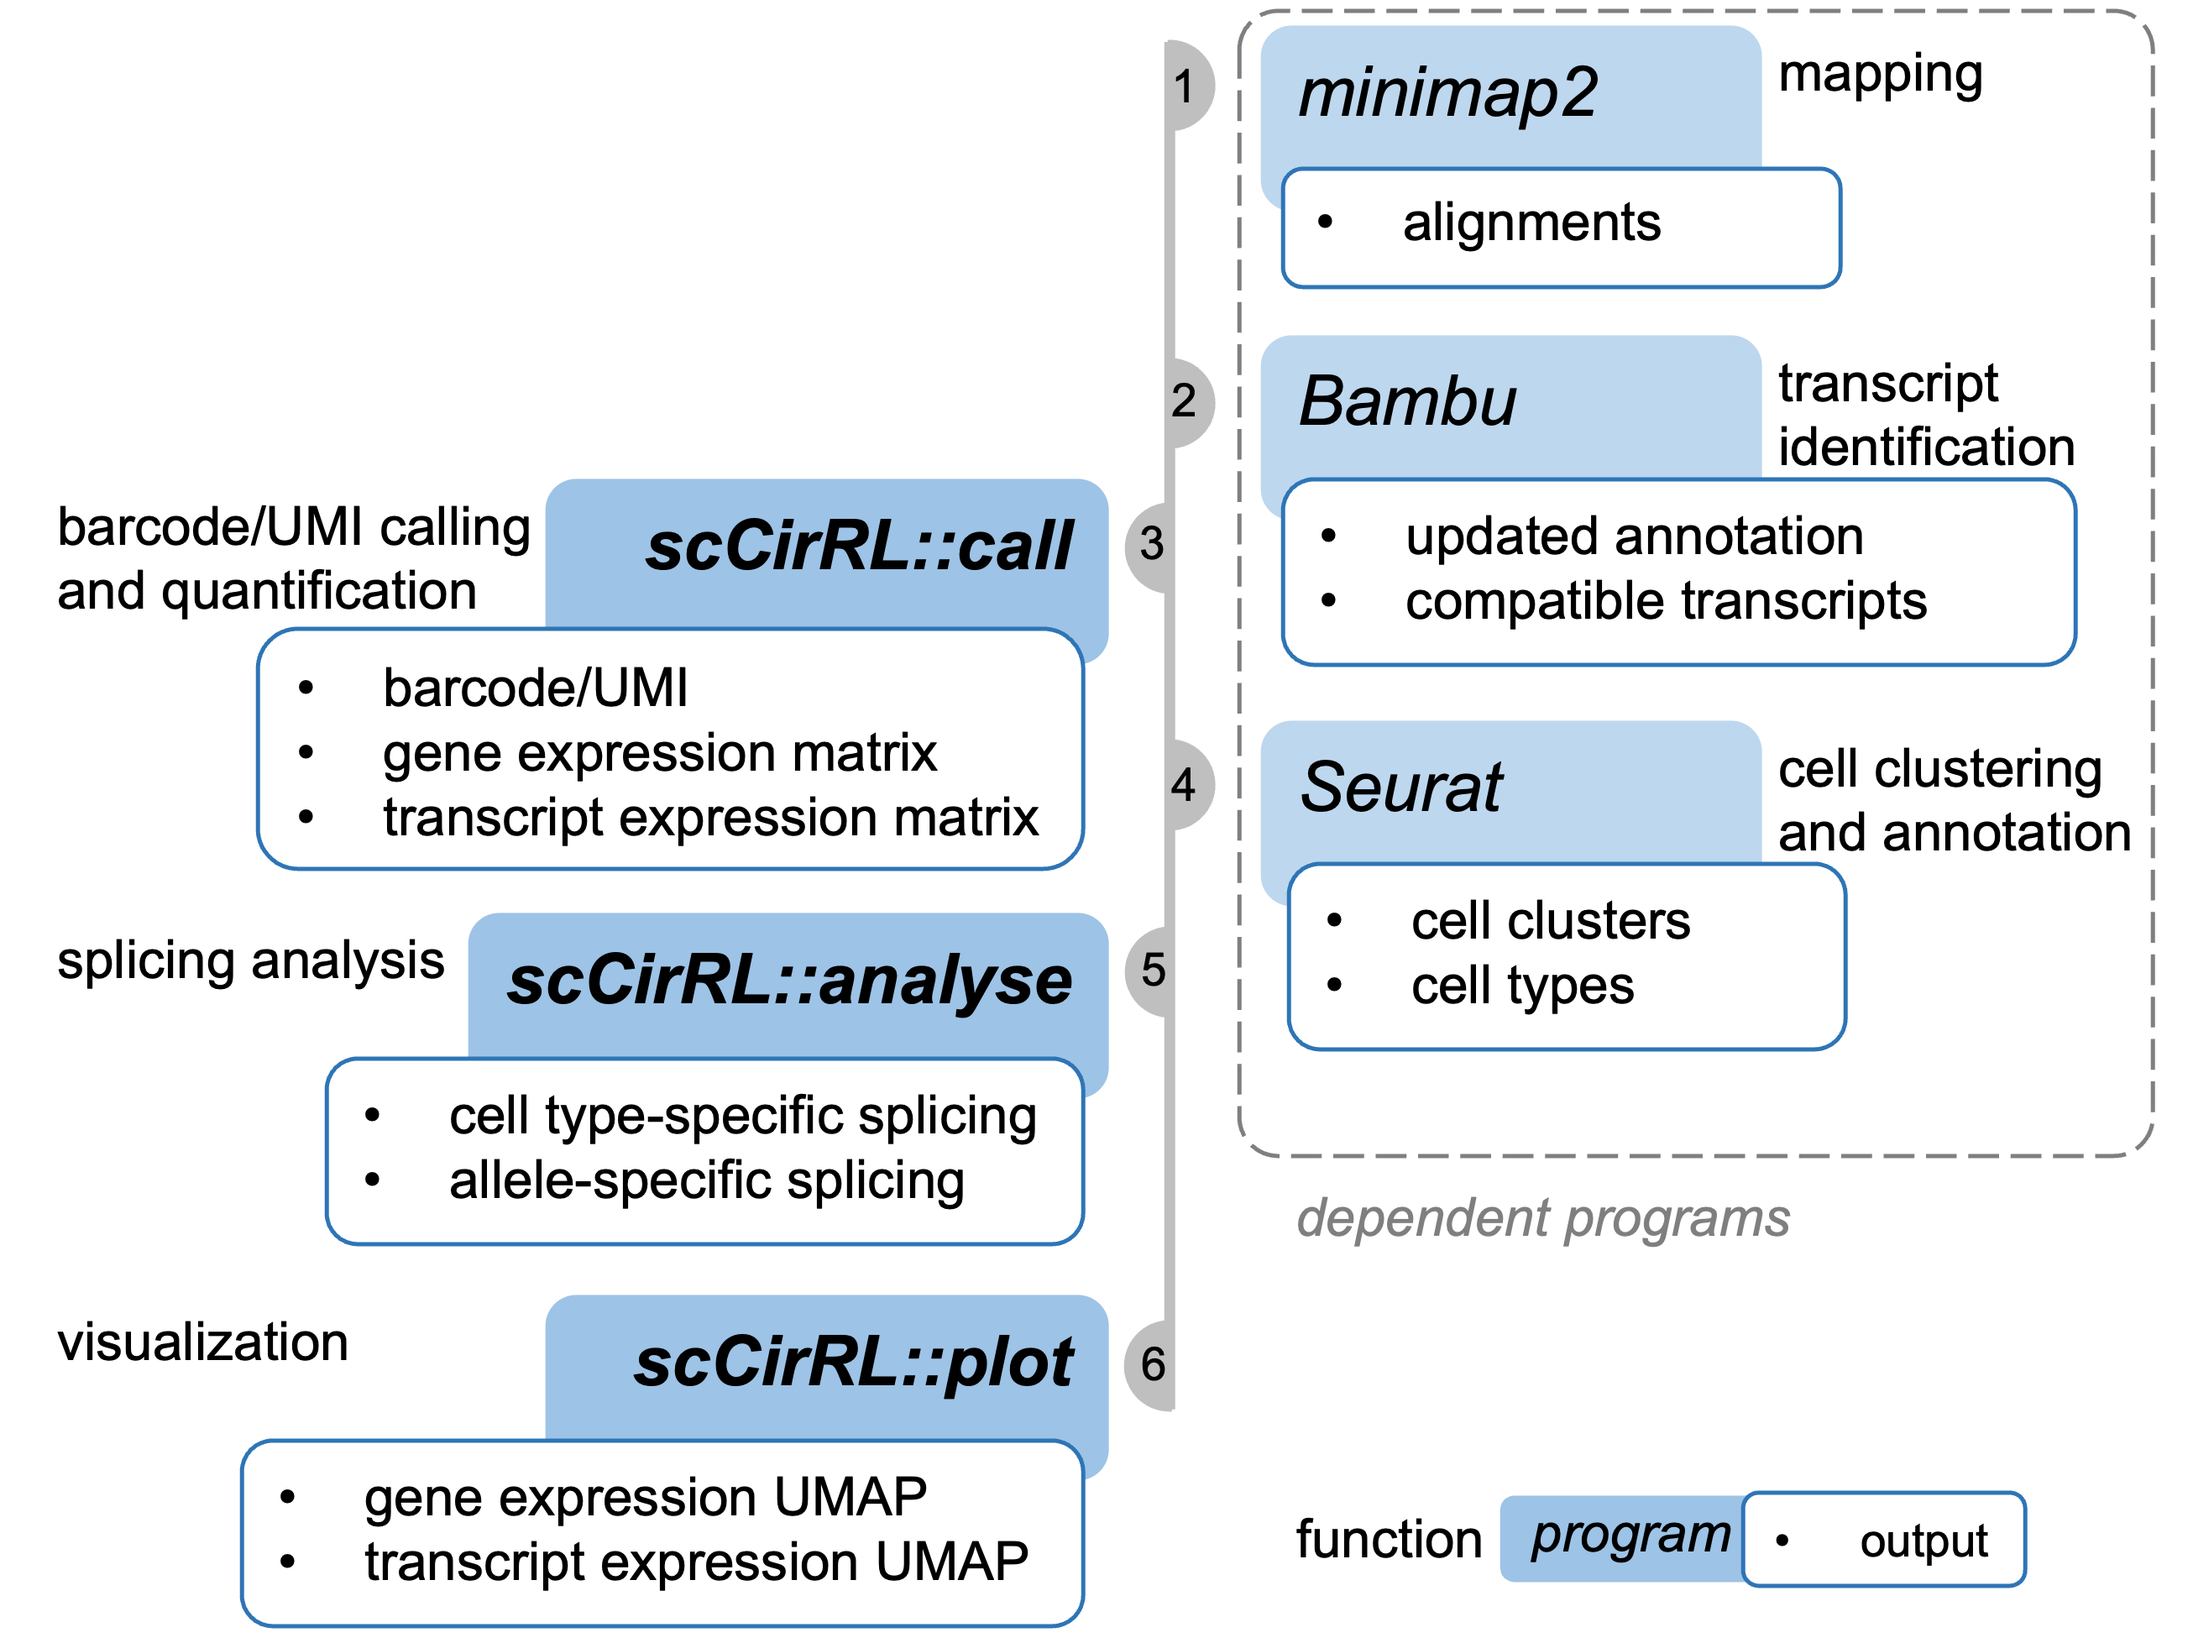
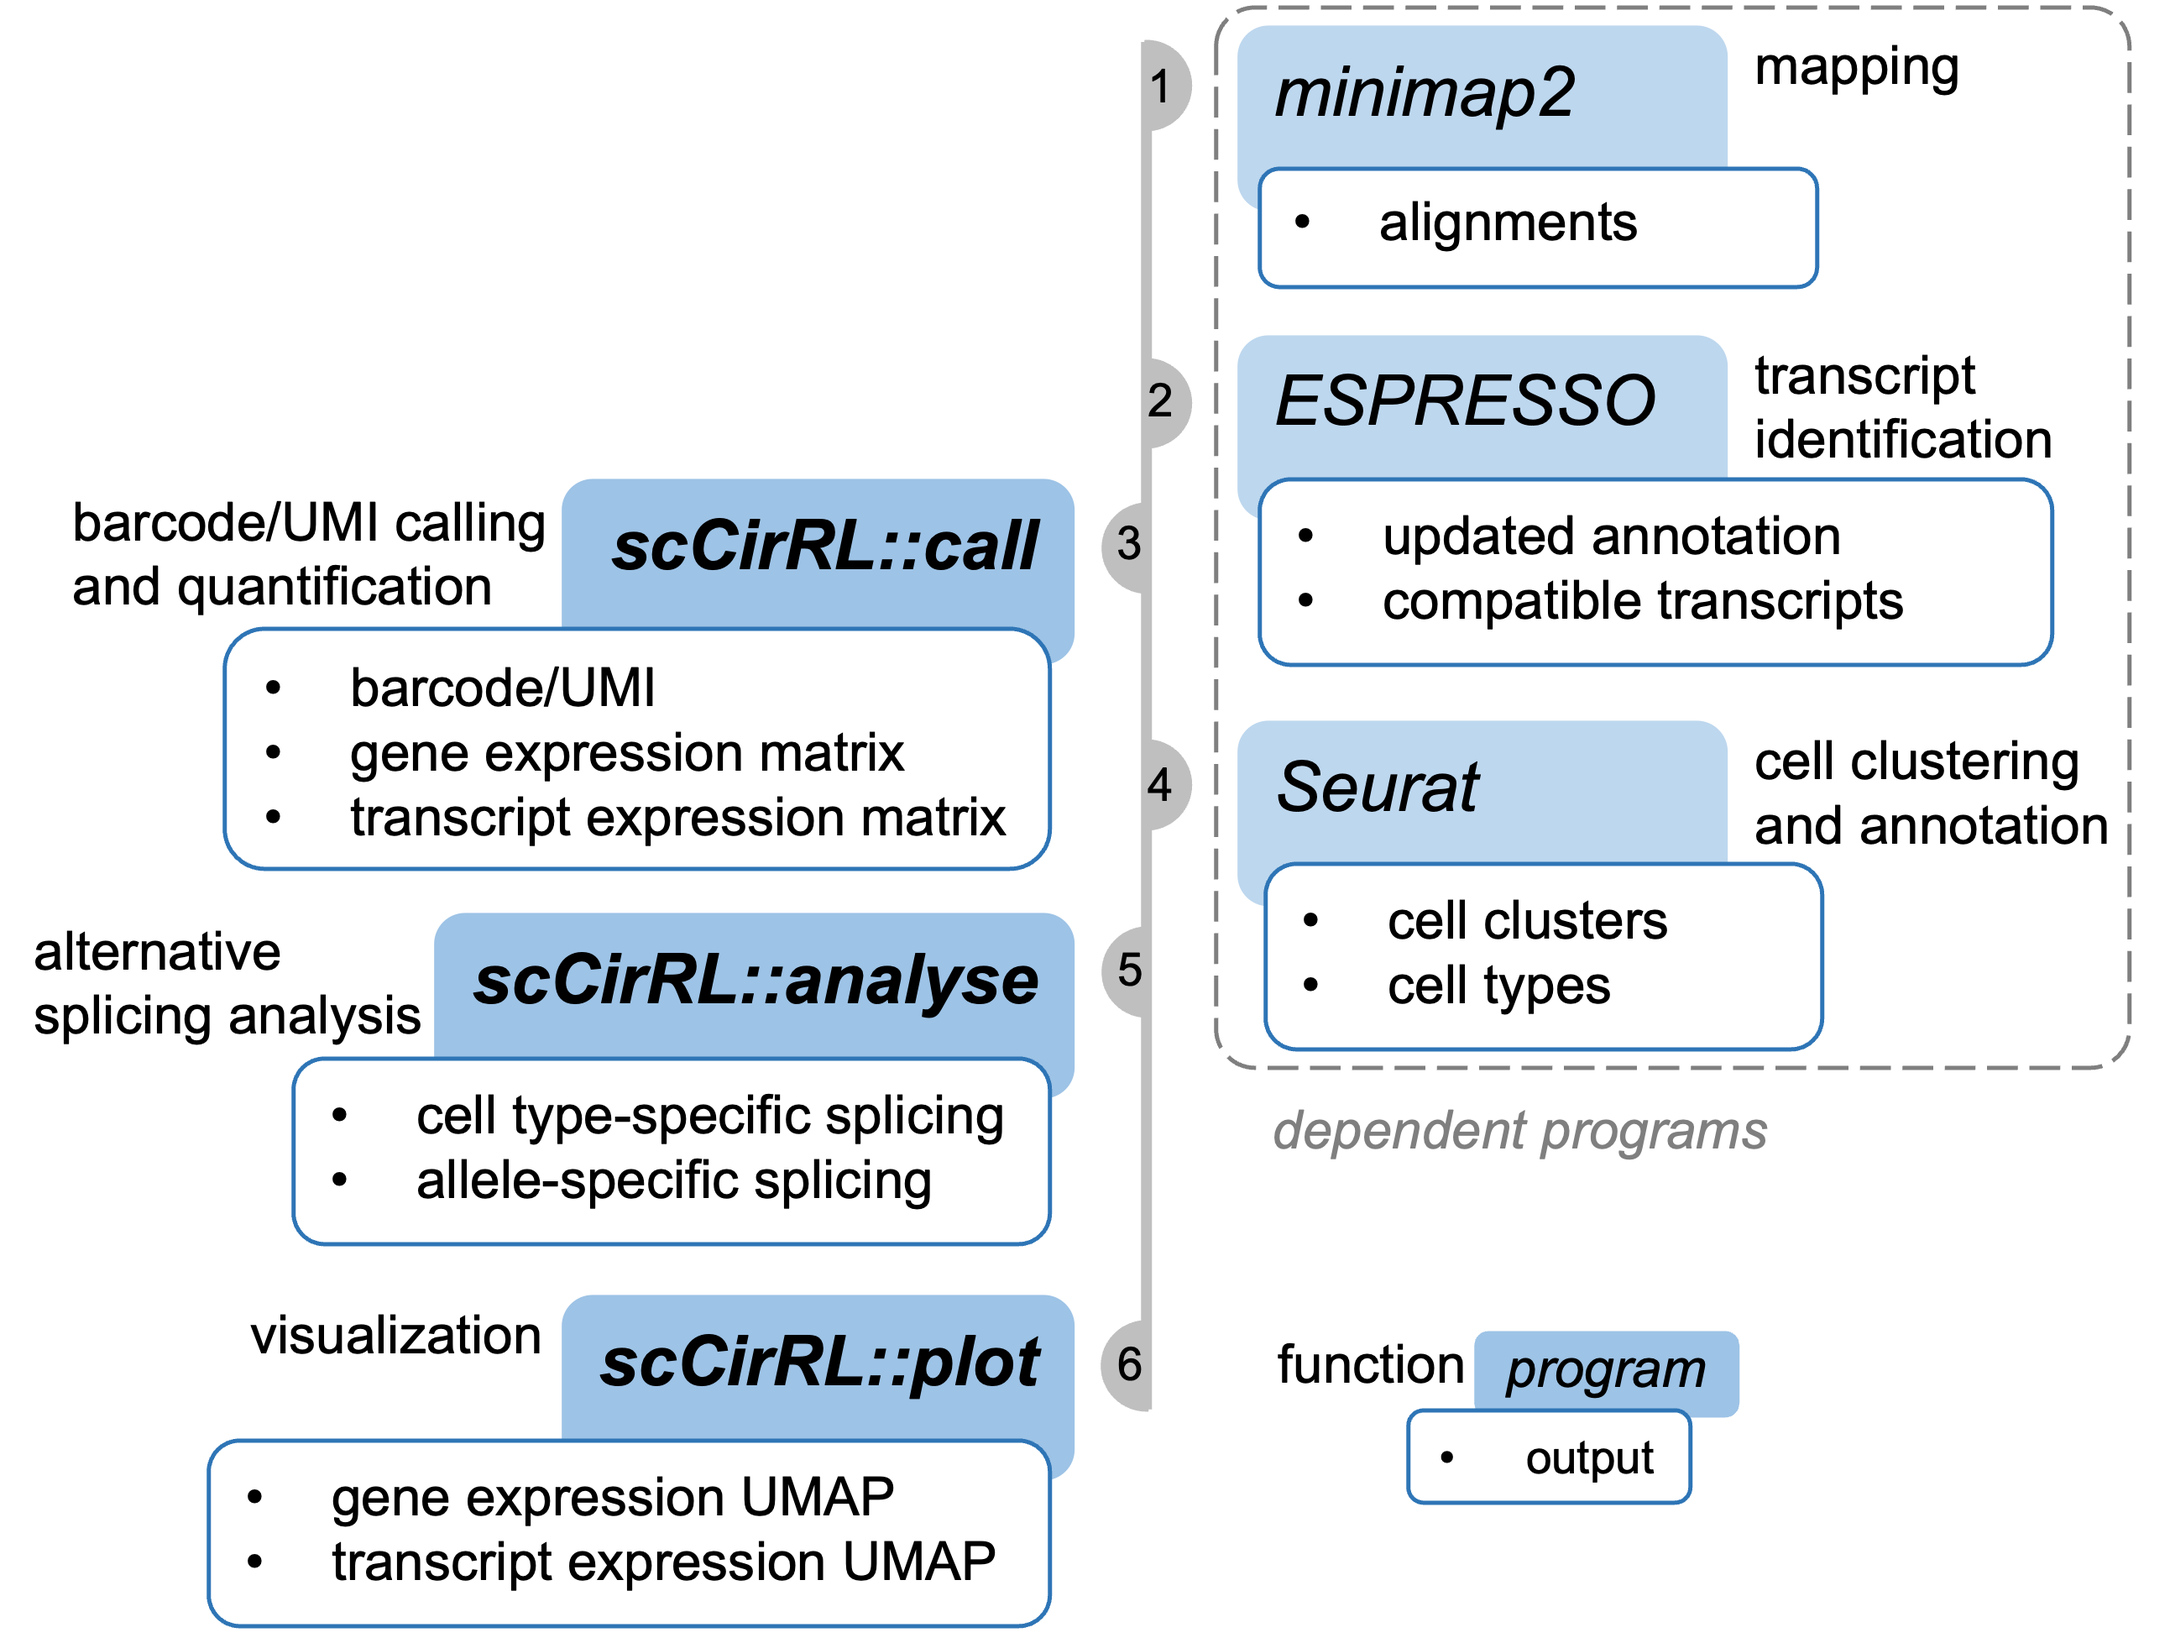
update README

diff --git a/README.md b/README.md
@@ -1,4 +1,5 @@
-# scCirRL: <ins>s</ins>ingle-<ins>c</ins>ell <ins>C</ins>haracterization of <ins>i</ins>soform <ins>r</ins>egulation using <ins>R</ins>NA-seq <ins>L</ins>ong reads
+<!-- # scCirRL: <ins>s</ins>ingle-<ins>c</ins>ell <ins>C</ins>haracterization of <ins>i</ins>soform <ins>r</ins>egulation using <ins>R</ins>NA-seq <ins>L</ins>ong reads -->
+# Haplotype-resolved full-length transcriptome analysis in single cells by scCirRL-seq
 
 <!-- [![Latest Release](https://img.shields.io/github/release/xinglab/scCirRL.svg?label=Release)](https://github.com/xinglab/scCirRL/releases/latest) -->
 <!-- [![Github All Releases](https://img.shields.io/github/downloads/xinglab/scCirRL/total.svg?label=Download)](https://github.com/xinglab/scCirRL/releases) -->
@@ -12,19 +13,21 @@
 
 - First version
 
-## What is scCirRL
-scCirRL is an analysis pipeline designed for single-cell RNA-seq long-read data.
-It mainly consists of two parts:
+## What is scCirRL-seq
+scCirRL-seq is a computational pipeline designed for single-cell RNA-seq long-read data.
+<!-- companioned with our single-cell long-read expermental protocol. -->
+It mainly consists of three parts:
 1. cell barcode/UMI calling: a standalone module for barcode/UMI calling and gene/transcript quantification
 2. alternative splicing analysis: modules for identification of cell type-specific and allele-specific splicing
+3. visualization of gene and transcript expression in single cells
 
 <img src="figs/github-workflow.png" width="70%">
 
 ## Table of Contents
-- [scCirRL: single-cell Characterization of isoform regulation using RNA-seq Long reads](#sccirrl-single-cell-characterization-of-isoform-regulation-using-rna-seq-long-reads)
+- [Haplotype-resolved full-length transcriptome analysis in single cells by scCirRL-seq](#haplotype-resolved-full-length-transcriptome-analysis-in-single-cells-by-sccirrl-seq)
   - [TODO: add one-line command to run, 1) barcode calling, 2) cell-type splicing, 3) allele-specific splicing](#todo-add-one-line-command-to-run-1-barcode-calling-2-cell-type-splicing-3-allele-specific-splicing)
   - [Updates (v0.0.1)](#updates-v001)
-  - [What is scCirRL](#what-is-sccirrl)
+  - [What is scCirRL-seq](#what-is-sccirrl-seq)
   - [Table of Contents](#table-of-contents)
   - [Installation](#installation)
     - [Operating system and python version](#operating-system-and-python-version)
